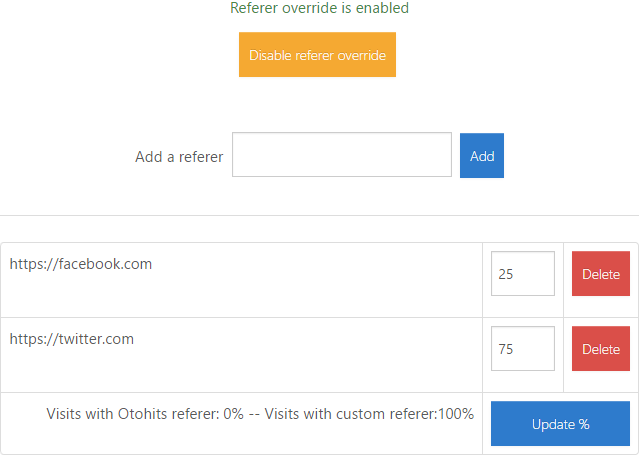
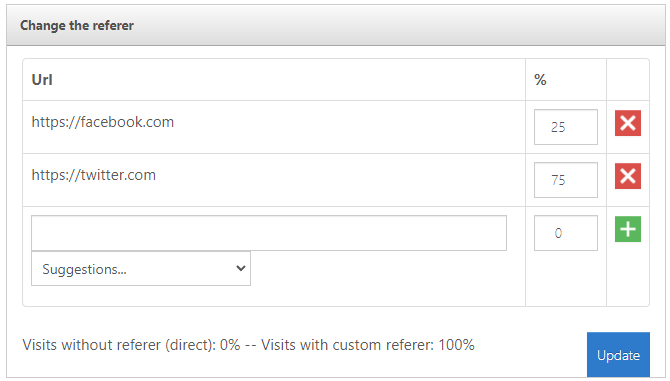
Add user-agent Guide
- Fix referer override article

diff --git a/blog/_posts/2023/2023-08-13-overriding-the-useragent.md b/blog/_posts/2023/2023-08-13-overriding-the-useragent.md
@@ -1,0 +1,49 @@
+---
+author: Otohits Webmaster
+title: "Overriding the user-agent"
+date: 2023-08-13
+tags:
+    - Guide
+---
+
+## What is the user-agent?
+
+User-agent is like a signature of your browser. With the user-agent, a website knows which browser you are using.
+
+Here is an example of a user-agent: `Mozilla/5.0 (Windows NT 5.1; rv:31.0) Gecko/20100101 Firefox/31.0`
+
+The above example shows you the Firefox 31 user-agent.
+
+You can check your current user-agent on the follwing website: [https://whatmyuseragent.com/](https://whatmyuseragent.com/)
+
+## Why should I change the user-agent?
+
+Most of statistics and traffic tools can easily look at the user-agents that came on your website. When the same user-agent is always used, it's easier to suspect low quality traffic. 
+
+Changing the user-agent will bring you more natural visits, made with multiple user-agent and you can even simulate visits from mobile phones or tablets.
+
+## How it works?
+
+When the Application is started, it will automatically and randomly take a default user-agent. This is to avoid having the same one for every Application and introduce some variety.
+
+You can also choose manually the user-agents to be used on your links.
+
+* Go to your my sites page
+* Click on the configuration button ![Config button](/img/guides/config_btn.png) of one of your links and click on advanced options and info
+* Find the `Change the user-agent` row and enable it
+
+![Change user-agent referer row](/img/guides/change_ua_1.png)
+
+* You will see a table with a row below to add a new user-agents. You can also select pre-made user-agents from the suggestion list
+
+![Change user-agent row](/img/guides/change_ua_2.png)
+
+* In the example below, I chose to recieve 50% of the visits with an iPhone user-agent and the other 50% with Firefox user-agent
+
+![Change user-agent example](/img/guides/change_ua_3.png)
+
+* Click on the `Update` button
+
+## Notes
+
+* Default user-agent choosen by the Applications and Suggestions are not guaranteed to be up to date 

diff --git a/blog/_posts/2023/2023-08-12-how-to-override-the-referer.md b/blog/_posts/2023/2023-08-12-how-to-override-the-referer.md
@@ -22,21 +22,21 @@ With the override referer feature, you can put any domain as referers and you li
 
 * Go to your my sites page
 * Click on the configuration button ![Config button](/img/guides/config_btn.png) of one of your links and click on advanced options and info
-* Scroll down to the `Change referer tab` and click on `Enable referer override`
+* Find the `Change the referer` row and enable it
 
-![Override referer tab](/img/guides/ov_ref_1.png)
+![Override referer row](/img/guides/ov_ref_1.png)
 
-* Next, add the domains you want to use. Make sure they are absolute URLs (ex: `https://facebook.com` or `https://twitter.com`)
+* You will see a table with a row below to add a new referer. You can also select pre-made user-agents from the suggestion list
 
 ![Override referer visit type](/img/guides/ov_ref_2.png)
 
 * You will see that 100% of the visits will come from Otohits domain or will be direct visits. To update this value, you'll need to set the percentage of visits to use with the custom domains you added previously
 
-* As the example below, I set 25% for facebook and 75% for Twitter. After then, click the `Update %` button
+* As the example below, I set 25% for facebook and 75% for Twitter. After then, click the `Update` button
 
 ![Override referer update](/img/guides/ov_ref_3.png)
 
-* The text should now say: `Visits with custom referer:100%`
+* The text should now say: `Visits with custom referer: 100%`
 
 ## Points to consider when using the override referer feature
 
